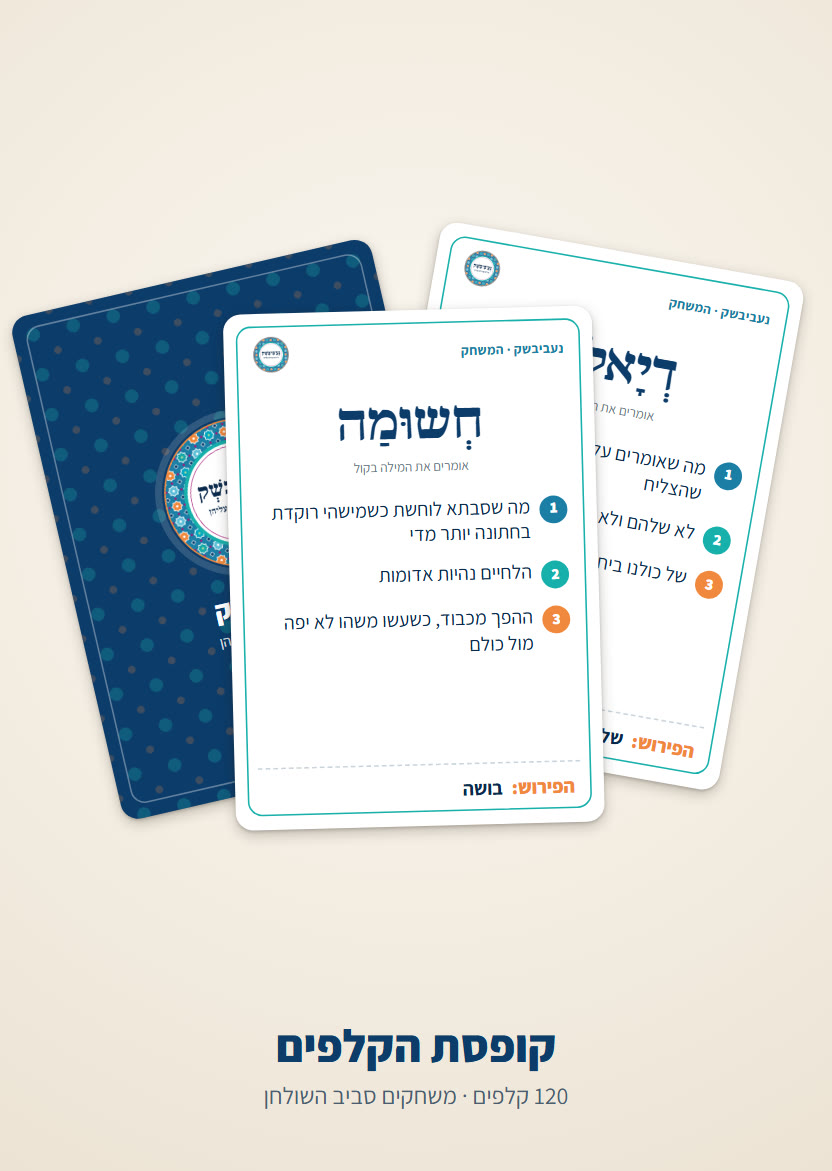
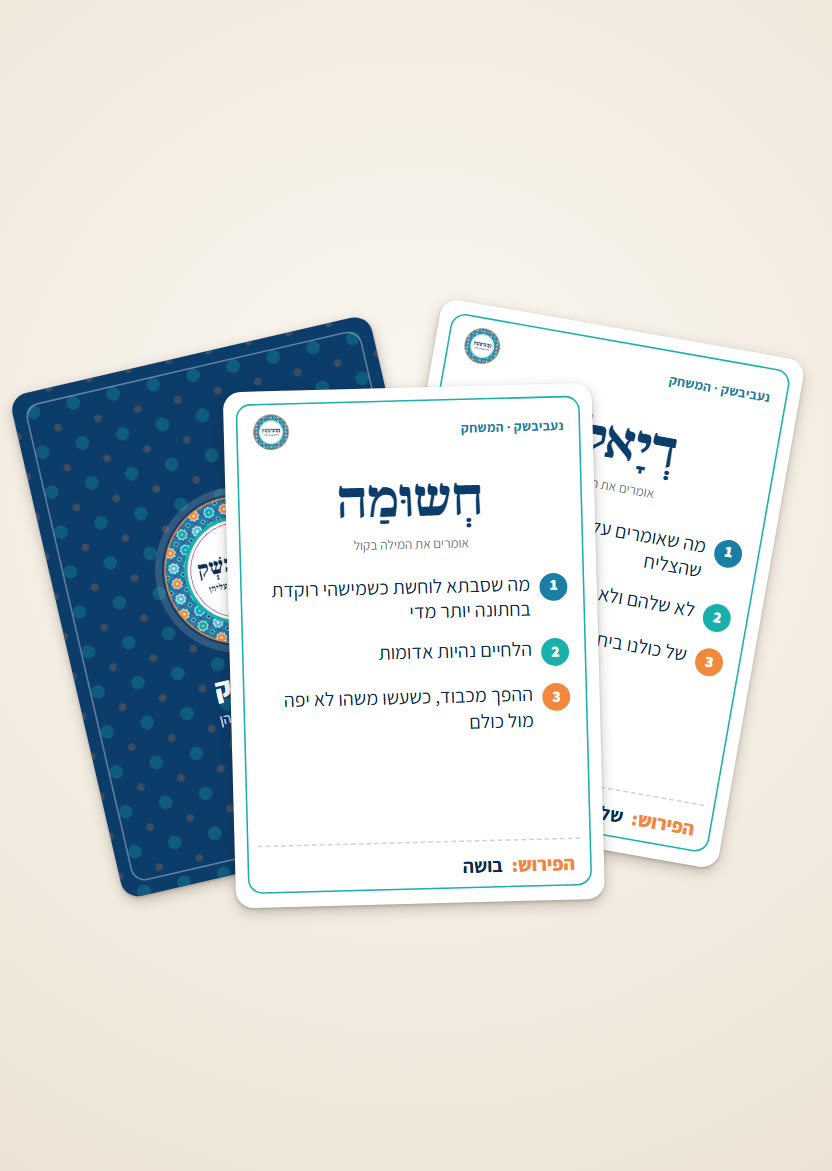
Shop: matching images for online game and card box (light background, no text), one-line subtitles

Changed region(s): [[0.0, 0.1845, 0.9688, 0.7993], [0.3125, 0.8608, 0.6875, 0.953]]

diff --git a/index.html b/index.html
@@ -452,14 +452,14 @@ const gItem=(href,src,alt,name,sub,price,go)=>`
         <div class="pr" style="justify-content:center;gap:16px"><span>${price}</span><span class="go">${go}</span></div>
       </a>`;
 const gameCard=`<div class="grid" style="grid-template-columns:repeat(2,minmax(0,320px));justify-content:center;margin-bottom:56px">
-  ${gItem('#play','img/game.jpg','נעביבשק · המשחק','משחקים מהטלפון','מסך אחד בסלון וכל אחד עונה מהטלפון · יש משחק ניסיון בחינם','מ־'+nis(39),'לפרטים ←')}
-  ${gItem('#cards','img/game-box.jpg','קלפי המשחק נעביבשק','קופסת הקלפים','120 קלפים מודפסים · זוג נגד זוג סביב השולחן',nis(BOX_PRICE),'לפרטים ←')}
+  ${gItem('#play','img/game-online.jpg','המשחק על מסך הטלוויזיה ובטלפונים','בטלוויזיה ובטלפון','המילה על המסך, כל אחד עונה מהטלפון','מ־'+nis(39),'לפרטים ←')}
+  ${gItem('#cards','img/game-box.jpg','קלפי המשחק נעביבשק','קופסת הקלפים','120 קלפים, משחקים סביב השולחן',nis(BOX_PRICE),'לפרטים ←')}
 </div>`;
 function playView(){
   V.innerHTML=`
   <section class="wrap pp">
     <div>
-      <div class="main"><img src="img/game.jpg" alt="נעביבשק · המשחק"></div>
+      <div class="main"><img src="img/game-online.jpg" alt="המשחק על מסך הטלוויזיה ובטלפונים"></div>
       <a class="back" href="#game">חזרה למשחק</a>
     </div>
     <div>
